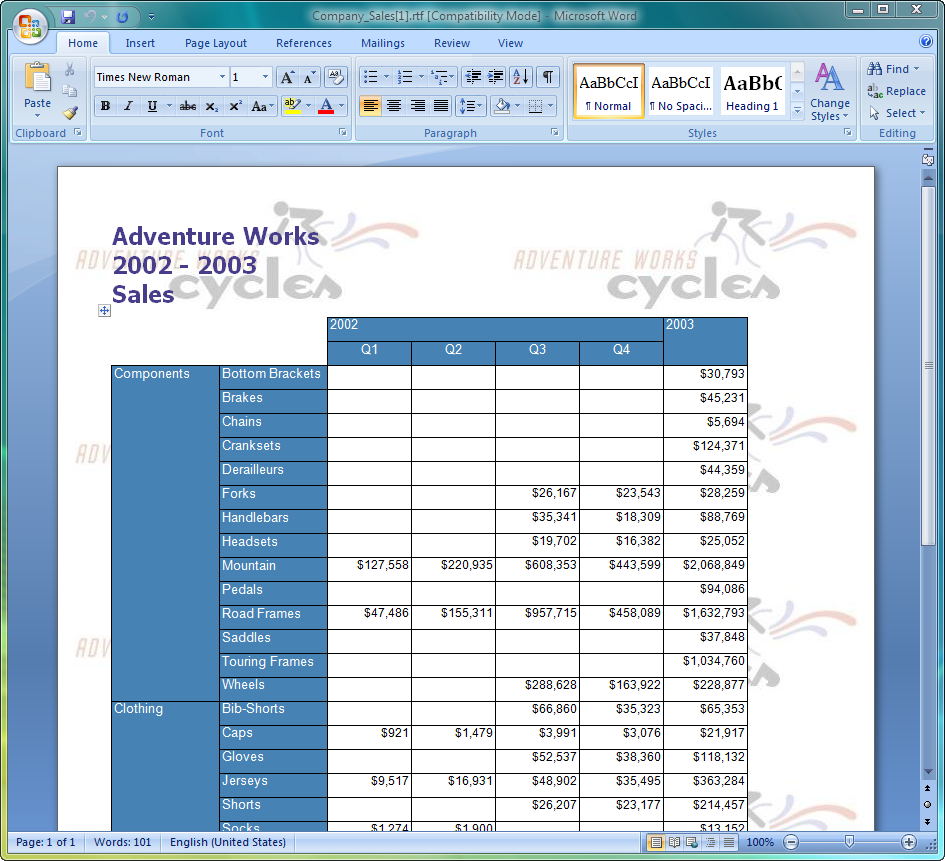
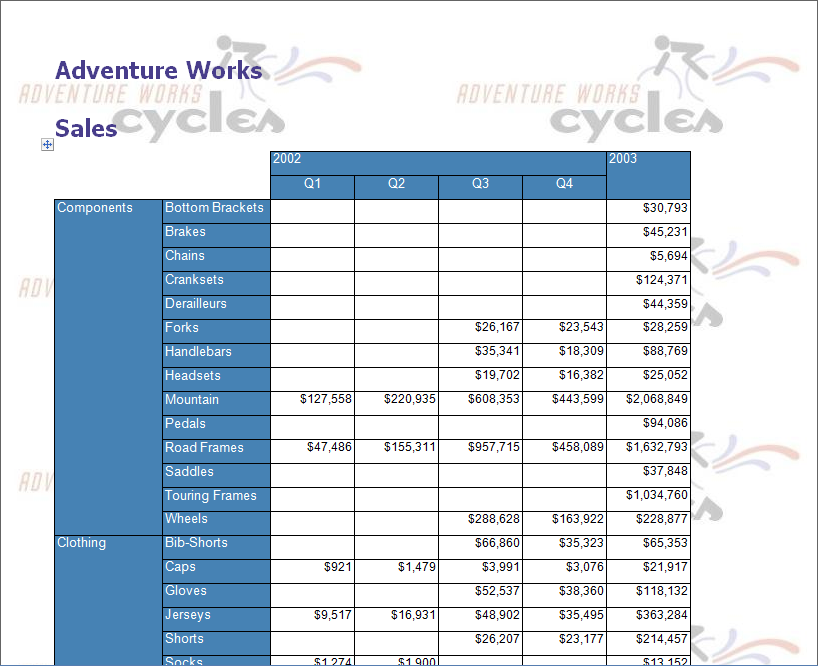
Updating old images.

diff --git a/reportingservices/getting-started/sample-gallery/_index.md b/reportingservices/getting-started/sample-gallery/_index.md
@@ -13,39 +13,28 @@ Most of the reports shown here come from the AdventureWorks database. AdventureW
 
 {{% /alert %}} 
 
-**Company Sales: RTF, matrix (grows vertically and horizontally), background image.** 
+**Company Sales: RTF, matrix (grows vertically and horizontally), background image.**
 
-![todo:image_alt_text](sample-gallery_1.png)
+<img src="sample-gallery_1.png" alt="sample-gallery_1" style="width:800px"/>
 
-
-
-
-**Employee Sales Summary: DOC, charts, images, textboxes, tables.** 
+**Employee Sales Summary: DOC, charts, images, textboxes, tables.**
 
 ![todo:image_alt_text](sample-gallery_2.png)
 
-
-
-**Product Catalog: DOC, title page, images, headers, footers, rectangles, lines, subreports.** 
+**Product Catalog: DOC, title page, images, headers, footers, rectangles, lines, subreports.**
 
 ![todo:image_alt_text](sample-gallery_3.png)
 
 ![todo:image_alt_text](sample-gallery_4.png)
 
-
-
-**Product Line Sales: DOC, charts, subreports, images, lists.** 
+**Product Line Sales: DOC, charts, subreports, images, lists.**
 
 ![todo:image_alt_text](sample-gallery_5.png)
 
-
-
-**Sales Order Detail: WordML, tables, styles, rectangles, textboxes, images.** 
+**Sales Order Detail: WordML, tables, styles, rectangles, textboxes, images.**
 
 ![todo:image_alt_text](sample-gallery_6.png)
 
-
-
-**Third Party Controls: OOXML, textboxes, Dundas Chart for Reporting Services in the report.** 
+**Third Party Controls: OOXML, textboxes, Dundas Chart for Reporting Services in the report.**
 
 ![todo:image_alt_text](sample-gallery_7.png)
